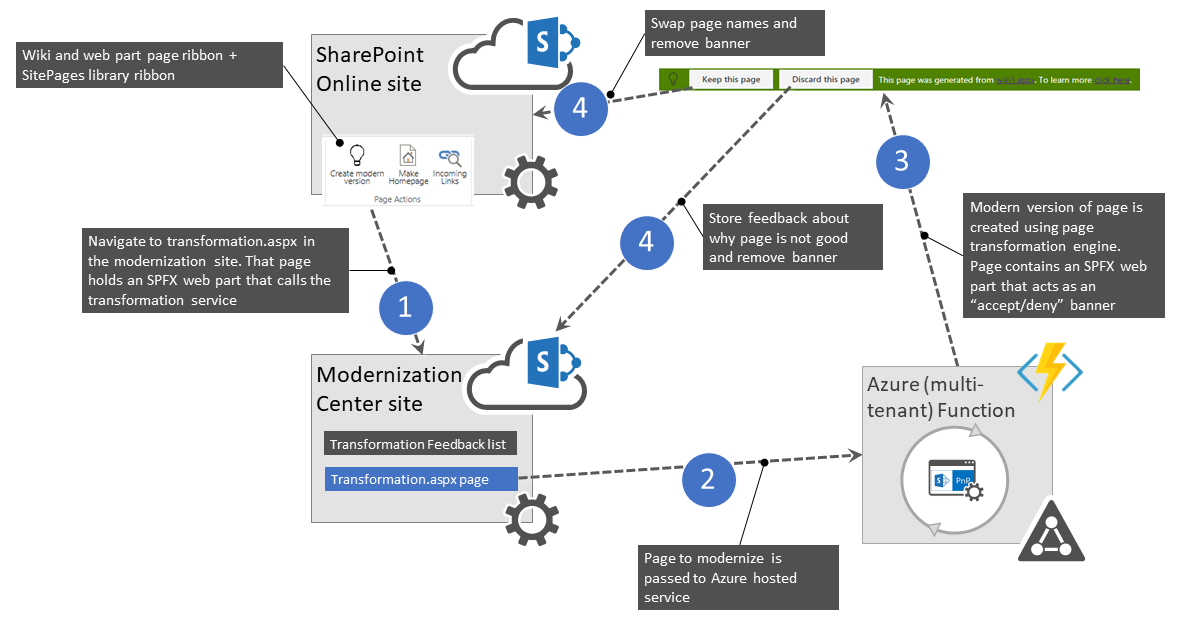
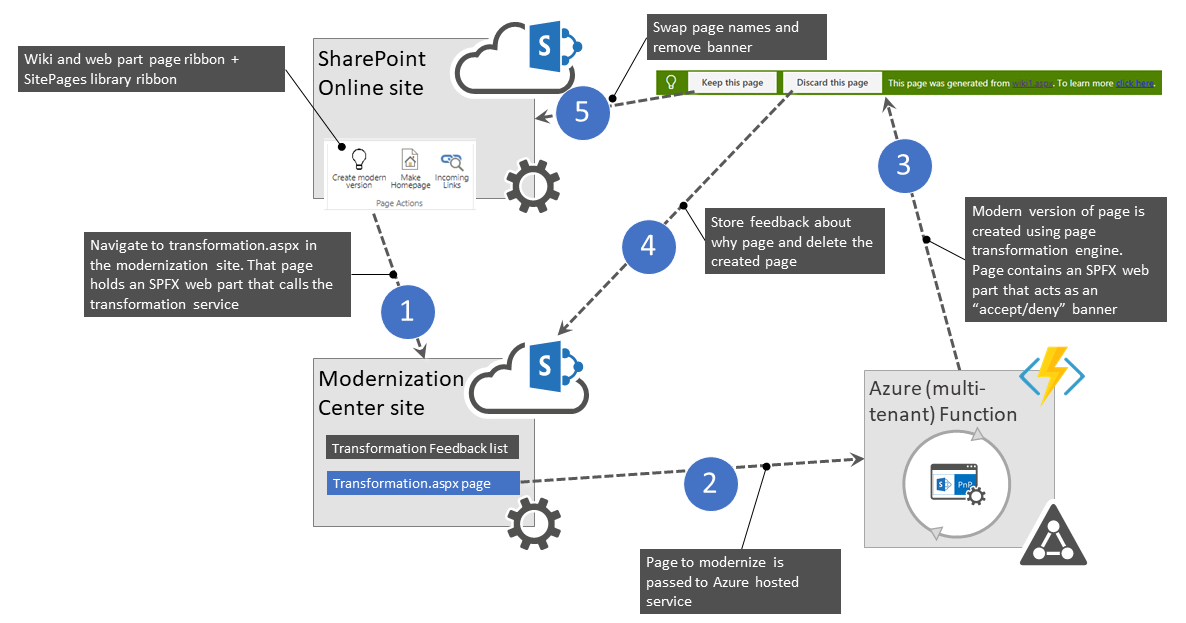
updated architecture diagram and description

Changed region(s): [[0.0, 0.0, 0.9983, 0.9822]]

diff --git a/Solutions/PageTransformationUI/README.md b/Solutions/PageTransformationUI/README.md
@@ -10,7 +10,8 @@ Below diagram shows the high level architecture of the solution:
 1. From any of the UI elements the users triggers the creation of a modern version of the selected wiki or web part page. This will be done by calling a "central" proxy page which is hosted in the modernization center site collection
 2. The "central" proxy page contains an SPFX web part that makes a call to an Azure AD secured Azure Function
 3. The Azure Function uses the [SharePoint Modernization Framework](https://www.nuget.org/packages/SharePointPnPModernizationOnline) to create a modern version of the page. This created modern version does contain a banner web part which provides the end user with the option to keep or discard the created page. Important to understand is that this modern page is a **new** page with name like migrated_oldpagename.aspx
-4. If the page is discard a feedback dialog is shown asking the user for a reason why the page was not good. This information is then stored in a central list in the modernization center site collection. If the users keeps the page then the modern page gets the name of the original page and the original page is renamed with an old_ prefix
+4. If the page is discard a feedback dialog is shown asking the user for a reason why the page was not good. This information is then stored in a central list in the modernization center site collection. 
+5. If the users keeps the page then the modern page gets the name of the original page and the original page is renamed with an old_ prefix
 
 ![page transformator web part](docs/images/PageTransformationUIarchitecture.png)
 
